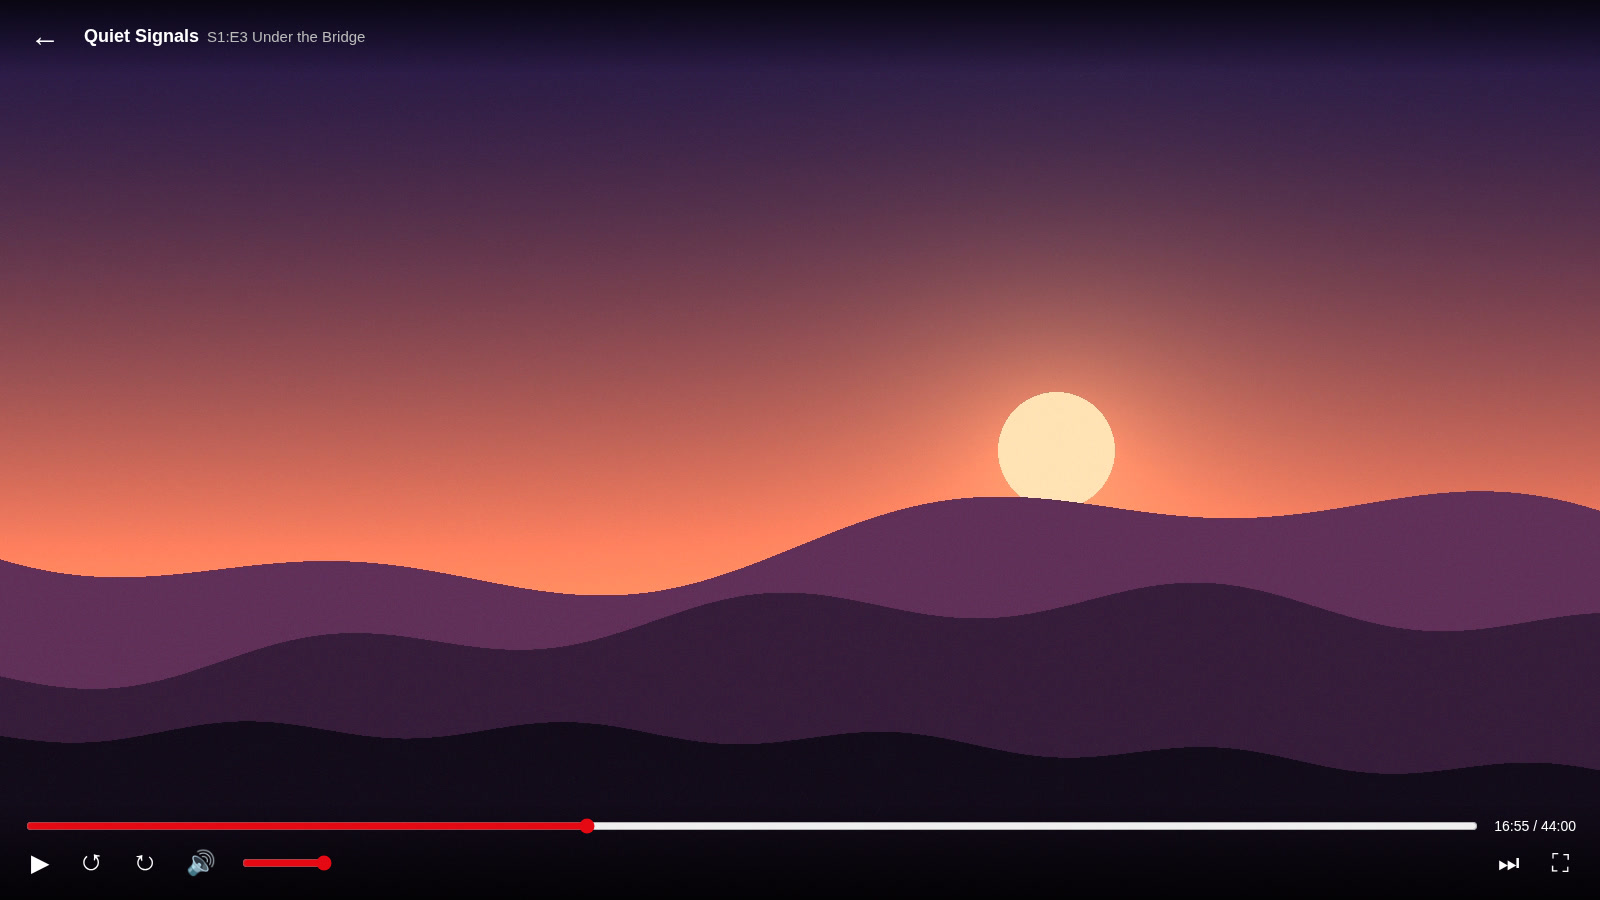
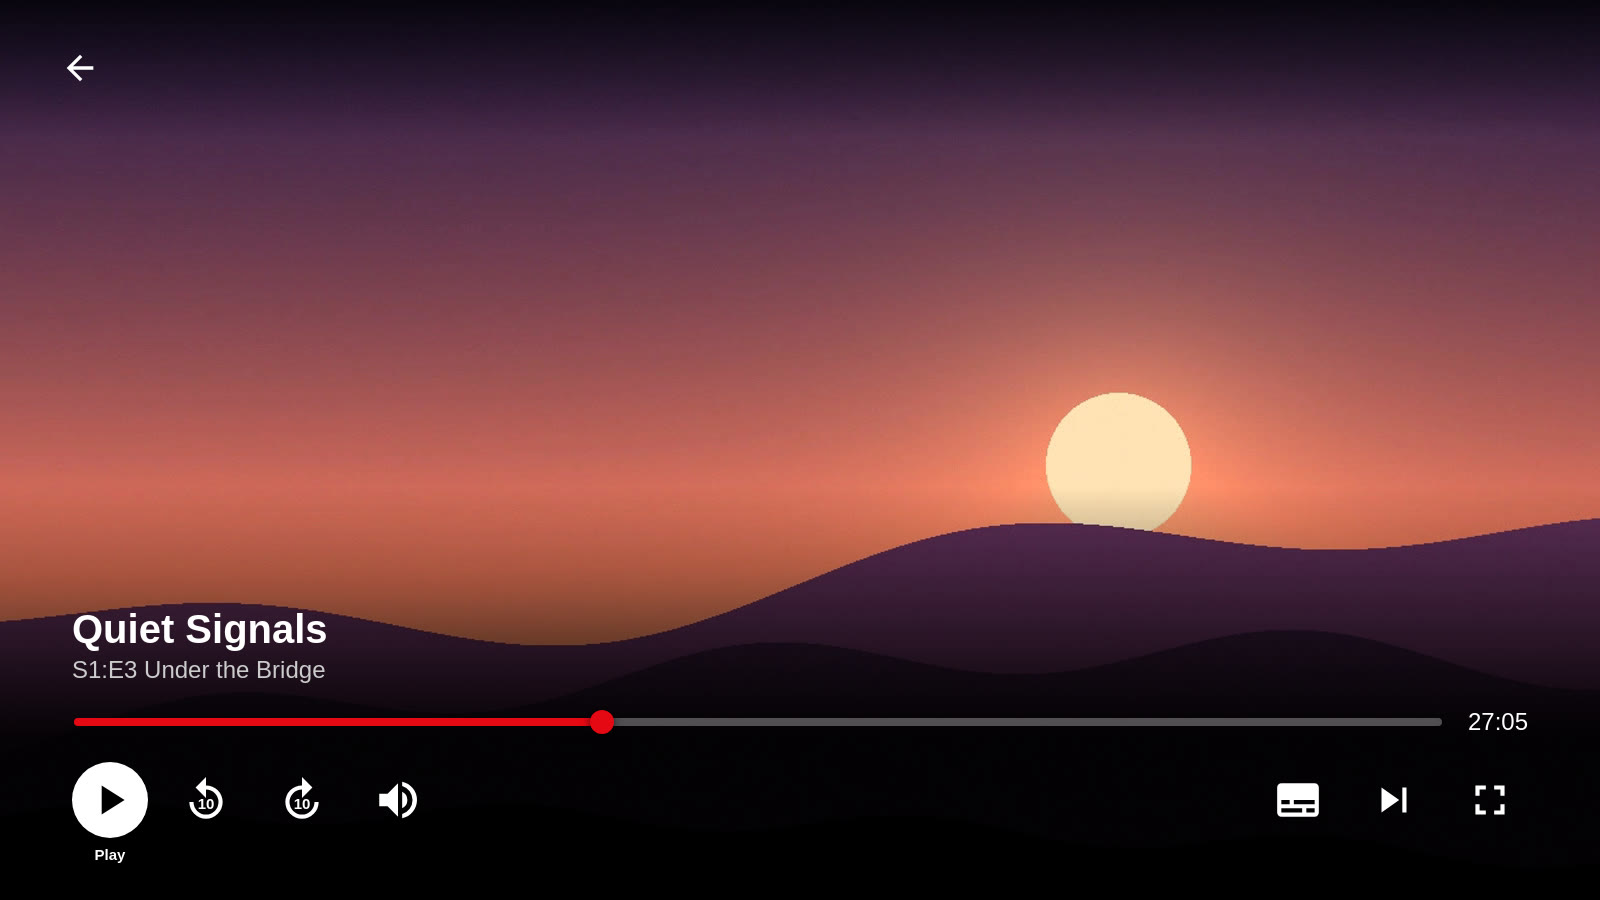
README: new desktop player screenshot
Replace the player screenshot with the TV-style desktop controls from
v1.4.0 and describe them in the feature list.

Changed region(s): [[0.0, 0.4356, 1.0, 0.9644], [0.0, 0.0311, 1.0, 0.0933]]

diff --git a/README.md b/README.md
@@ -29,7 +29,7 @@ You already own the movies, the shows and the albums. They're sitting in a folde
 It's one file and uses nothing outside the Python standard library. You can read all of it in an afternoon, and it runs on whatever machine already has your media on it.
 
 <p align="center">
-  <img src="docs/screenshots/player.jpg" alt="Homeflix video player mid-episode, showing the seek bar, skip, volume and next-episode controls" width="100%">
+  <img src="docs/screenshots/player.jpg" alt="Homeflix video player on a computer, paused mid-episode: the show title above a red progress bar with the time left, and a row of big round buttons (play, back 10 s, forward 10 s, volume, subtitles, next episode, full screen) with Play highlighted" width="100%">
   <br><sub>The player resumes where you left off, and the controls fade away while you watch.</sub>
 </p>
 
@@ -110,6 +110,9 @@ It's one file and uses nothing outside the Python standard library. You can read
 
 ### Big controls on phones and tablets
 Big **back 30 s · play/pause · forward 30 s** buttons in the middle of the picture, a progress bar you can **tap anywhere to jump** (or drag), and large **mute** and **full screen** buttons. Tap the picture to show or hide the controls.
+
+### TV-style controls on computers
+In a desktop browser the player looks like a TV app: the show and episode in large text above a thick progress bar showing the **time left**, and a row of **big round buttons**. The button under the mouse turns white and shows its name. Point at the speaker for the volume slider.
 
 ### Keyboard-first player
 `Space` play/pause · `←` `→` skip 10s · `↑` `↓` volume · `F` full screen · `M` mute · `N` next episode · `S` skip ad · `Esc` back
